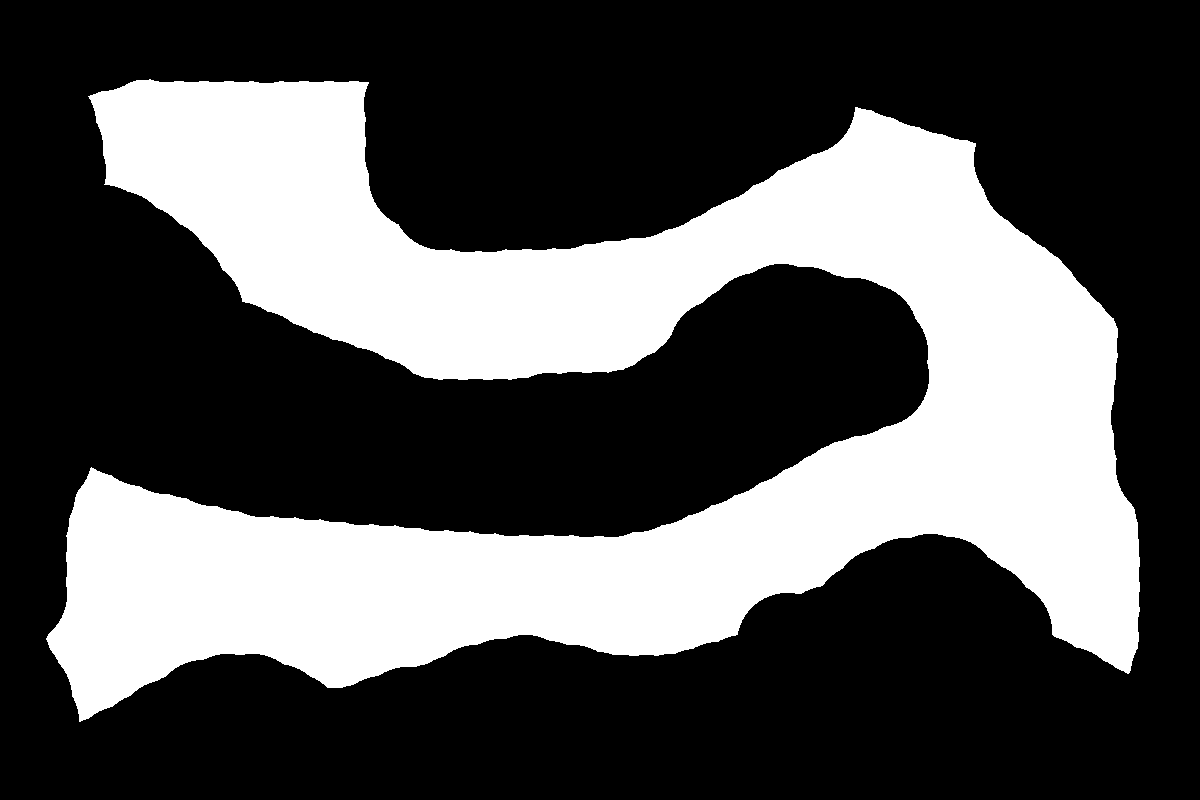
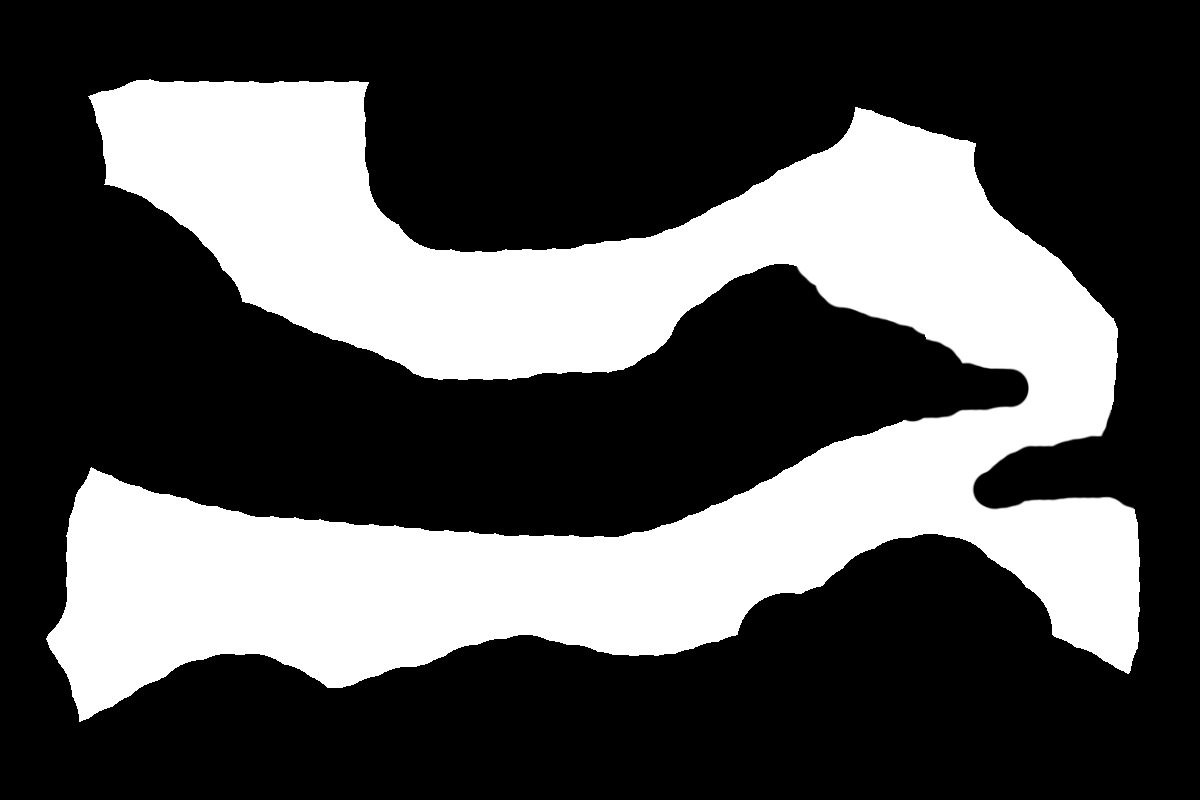
When the hero moves, the layer position is blocked so that we won't see outside of the background image.

Changed region(s): [[0.6783, 0.3438, 0.8633, 0.5312], [0.8017, 0.5312, 0.9558, 0.6562], [0.6475, 0.3125, 0.6783, 0.3438]]

diff --git a/Classes/SynthHero.cpp b/Classes/SynthHero.cpp
@@ -34,6 +34,8 @@ void SynthHero::init(Layer* pParent)
 	_pHeroSprite->setPosition(Point(200.f, 150.f)); 
 	pParent->addChild(_pHeroSprite, 1);
 	_pParent = pParent;
+	CCLOG("Background size : %fx%f",_pParent->getChildByTag(1)->getContentSize().width,_pParent->getChildByTag(1)->getContentSize().height);
+
 }
 
 void SynthHero::walkLeft(bool bStart)
@@ -123,7 +125,16 @@ void SynthHero::move(float fDt)
 
 	_pHeroSprite->setPosition(nextHeroPosition);
 
-	// Updating layer position
-	Point nextLayerPosition = Point(-1*(nextHeroPosition.x-450.f),-1*(nextHeroPosition.y-320.f));
+	/* Updating layer position */
+	Point nextLayerPosition = Point(-1*(nextHeroPosition.x-450),-1*(nextHeroPosition.y-320));
+	Size backgroundSize = _pParent->getChildByTag(1)->getContentSize();
+
+	// Block to the edge of the layer
+	if(nextHeroPosition.x < 450 || nextHeroPosition.x > backgroundSize.width-450) nextLayerPosition.x = _pParent->getPosition().x;
+	if(nextHeroPosition.y < 320 || nextHeroPosition.y > backgroundSize.height-320) nextLayerPosition.y = _pParent->getPosition().y;
+
+	CCLOG("Next layer position : (%f, %f)", nextLayerPosition.x, nextLayerPosition.y);
+
 	_pParent->setPosition(nextLayerPosition);
+
 }

diff --git a/Classes/HelloWorldScene.cpp b/Classes/HelloWorldScene.cpp
@@ -61,7 +61,7 @@ bool HelloWorld::init()
 	Sprite* pBgSprite = Sprite::create("background.png");
 	pBgSprite->setAnchorPoint(Point(0, 1));
 	pBgSprite->setPosition(Point(0.f, pBgSprite->getContentSize().height));
-	this->addChild(pBgSprite, 0);
+	this->addChild(pBgSprite, 0, 1);
     
 	//hero
 	_pHero = new SynthHero();
